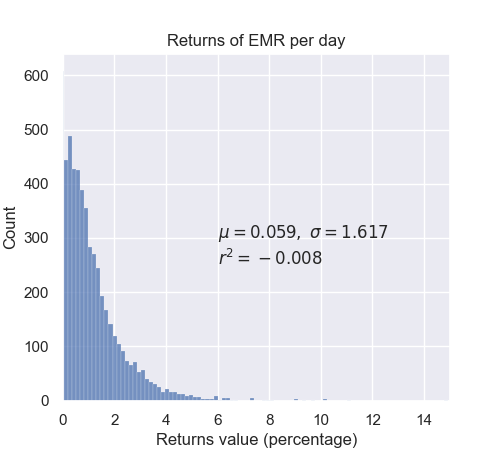
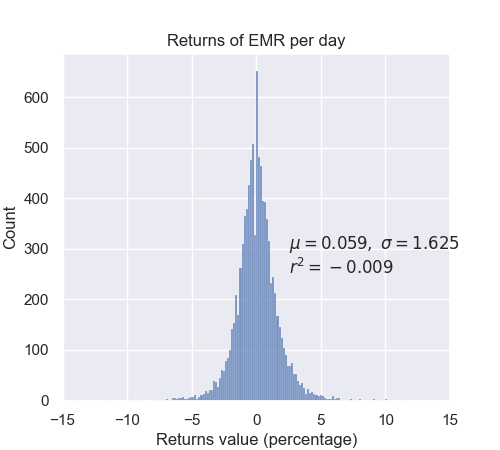
updated ex1 and ex2

diff --git a/main.py b/main.py
@@ -3,52 +3,65 @@ import numpy as np
 import pandas as pd
 import matplotlib.pyplot as plt
 import seaborn as sns
+import random
+from functools import reduce
 
+portfolio_stocks = ['VMC', 'EMR', 'CSX', 'UNP']
+num_of_stocks = len(portfolio_stocks)
+portfolio_weights = (0.25, 0.25, 0.25, 0.25)
 
 def load_data():
-    portfolio_composition = ['VMC', 'EMR', 'CSX', 'UNP']
-
     stocks_close = pd.DataFrame({})
 
-    for stock_name in portfolio_composition:
+    for stock_name in portfolio_stocks:
         ticker = yfinance.Ticker(stock_name)
         data = ticker.history(interval="1d",
-                              start="1980-01-01", end="2019-12-31")
+                              start="1980-01-01", end="2018-03-26")
 
-        data[f'Close_{stock_name}'] = data['Close']
+        data[f'{stock_name}'] = data['Close']
 
-        stocks_close = stocks_close.join(data[[f'Close_{stock_name}']],
+        stocks_close = stocks_close.join(data[[f'{stock_name}']],
                                how='outer').dropna()
 
-    return stocks_close
+    stocks_returns = get_returns_df(stocks_close)
+    return stocks_returns
+
+def get_returns_df(data):
+    d = {}
+
+    for stock_name in data.columns:
+        stock_data = data[stock_name].values
+        y = [100*((stock_data[i]/stock_data[i-1])-1) for i in range(1, len(stock_data))]
+        d[stock_name] = y
+
+    df = pd.DataFrame(d)
+    df.index = data.index[1:]
+    return df
 
 def stocks_returns(data):
 
     sns.set_theme()
 
-    for stock in data.columns:
-        stock_name = stock.replace("Close_", "")
+    for stock_name in data.columns:
+        # stock_name = stock.replace("Close_", "")
 
-        stock_data = data[stock].values
-        x = np.arange(len(data.index))[1:]
-
-        y = [100*((stock_data[i]/stock_data[i-1])-1) for i in range(1, len(stock_data))]
+        stock_data = data[stock_name].values
+        x = np.arange(len(data.index))
 
         # calculating the stock correlation
-        r = np.corrcoef(x, y)[0, 1]
+        r = np.corrcoef(x, stock_data)[0, 1]
 
-        mean = np.mean(y)
-        std = np.std(y)
+        mean = np.mean(stock_data)
+        std = np.std(stock_data)
 
         # plotting histograms
-        # plt.hist(y, bins=50, alpha=0.75, density=True, facecolor='g')
         fig, ax = plt.subplots(figsize=(5, 4.5))
-        sns.histplot(y, ax=ax)
-        plt.xlim(-0.01, 15.01)
+        sns.histplot(stock_data, ax=ax)
+        plt.xlim(-15, 15)
         plt.title(f"Returns of {stock_name} per day")
         plt.xlabel("Returns value (percentage)")
-        plt.text(6, 300, r'$\mu={:.3f},\ \sigma={:.3f}$'.format(mean, std))
-        plt.text(6, 250, r'$r^2={:.3f}$'.format(r))
+        plt.text(2.5, 300, r'$\mu={:.3f},\ \sigma={:.3f}$'.format(mean, std))
+        plt.text(2.5, 250, r'$r^2={:.3f}$'.format(r))
         plt.grid(True)
         plt.savefig(f"visualizations/{stock_name}_histogram.png")
         plt.clf()
@@ -60,9 +73,160 @@ def stocks_returns(data):
     plt.title("Covariance matrix between the stocks' returns", fontsize='17')
     plt.savefig("visualizations/covariance_matrix.png")
 
+def get_small_window_days(data_days):
+    data_days = np.array(data_days)
+
+    num_forecast_days = 880
+    small_window_size = 10
+    num_of_small_window = int(num_forecast_days / small_window_size)
+
+    small_windows = []
+
+    random_dates = random.sample(range(len(data_days)-10), num_of_small_window)
+
+    for date in random_dates:
+        random_small_window = np.take(data_days, range(date, date+small_window_size))
+        # random_small_window = data_days[date: date+small_window_size].copy()
+        small_windows.append(random_small_window)
+
+    artificial_window = []
+    # flatten the small_windows list
+    for l in small_windows:
+        for elem in l:
+            artificial_window.append(elem)
+
+    return np.array(artificial_window)
+
+def mult_agg(series):
+    x = series.map(lambda x: x + 1)
+    for i in x:
+        print(i)
+        break
+    return reduce(lambda a, b: a*b, x)
+
+def create_sliding_window_simulation(data, num_of_windows=100, deposit=False):
+
+    data_values = data.values / 100
+
+    data_days = np.arange(len(data))
+
+    simulated_data = []
+
+    for i in range(num_of_windows):
+        small_window_days = get_small_window_days(data_days)
+        num_of_days = len(small_window_days)
+
+        small_window_data = data_values[small_window_days, :].copy()
+
+        small_window_data = small_window_data.reshape(-1, num_of_stocks)
+        small_window_data = small_window_data + 1
+
+        aggregated = np.prod(small_window_data, axis=0)
+
+        if deposit:
+            aggregated = np.ones((num_of_stocks,))
+            is_above_36 = [False for i in range(num_of_stocks)]
+
+            for day in small_window_data:
+                for stock_index in range(len(day)):
+                    # checking that this stock has not reached above 36 yet
+                    if not is_above_36[stock_index]:
+                        daily_stock_return = day[stock_index]
+                        # calculating the new stock return
+                        aggregated[stock_index] = aggregated[stock_index] * daily_stock_return
+                        if aggregated[stock_index] > 1.36:
+                            # change this stock total value to 2%
+                            aggregated[stock_index] = 1.02
+                            # from now on we will not even check this stock because it reached above 36
+                            is_above_36[stock_index] = True
+
+            aggregated[aggregated < 1] = 1
+
+        # aggregated is just one artificial window - just one sample in the simulation
+        simulated_data.append(aggregated)
+
+    simulated_data = pd.DataFrame(simulated_data, columns=data.columns)
+    simulated_data = (simulated_data - 1) * 100
+    simulated_data = simulated_data.applymap(lambda x: round(x, 3))
+    simulated_data = simulated_data.astype(np.float32)
+
+    return simulated_data
+
+def calculate_portfolio_probabilities(simulation_data):
+    # calculate the total portfolio return
+    simulation_data['Total_Return'] = simulation_data['VMC']*0.25 + simulation_data['EMR']*0.25 + simulation_data['CSX']*0.25 + simulation_data['UNP']*0.25
+
+    simulated_portfolio_return = simulation_data['Total_Return'].values
+    n = len(simulated_portfolio_return)
+
+    # calculate probability for 0%
+    print(100*'-')
+    print("Probability of 0% Return:")
+    prob_0 = (simulated_portfolio_return == 0.0).sum() / n
+    print("{:.3f}".format(prob_0))
+
+    print(100 * '-')
+    print("Probability of 2% Return:")
+    prob_2 = (simulated_portfolio_return == 2.0).sum() / n
+    print("{:.3f}".format(prob_2))
+
+    print(100 * '-')
+    print("Probability of [20%, 2%) Return:")
+    prob_20_2 = ((simulated_portfolio_return > 2.0) & (simulated_portfolio_return <= 20.0)).sum() / n
+    print("{:.3f}".format(prob_20_2))
+
+    print(100 * '-')
+    print("Probability of (20%, 36%) Return:")
+    prob_20_36 = ((simulated_portfolio_return > 20.0) & (simulated_portfolio_return < 36.0)).sum() / n
+    print("{:.3f}".format(prob_20_36))
+
+    print(100 * '-')
+    print("Return's Mean:")
+    mean = np.mean(simulated_portfolio_return)
+    print("{:.3f}".format(mean))
+
+    print(100 * '-')
+    print("Return's Confidence Interval:")
+    percentile_10th = np.percentile(simulated_portfolio_return, 10)
+    percentile_90th = np.percentile(simulated_portfolio_return, 90)
+    print("P(" + str(round(percentile_10th, 3)) + " <= mu <= " + str(round(percentile_90th, 3)) + ") = 0.9")
+
+
 def ex_1():
-    data = load_data()
-    stocks_returns(data)
+    returns_data = load_data()
+    stocks_returns(returns_data)
+
+def ex_2():
+    # -----------------a------------------
+    print(49*"-"+"a."+49*"-")
+    print("Simple Portfolio")
+    returns_data = load_data()
+    sim_data = create_sliding_window_simulation(returns_data, deposit=False)
+    calculate_portfolio_probabilities(sim_data)
+
+    # -----------------b------------------
+    print(49 * "-" + "b." + 49 * "-")
+    print("Market-linked CD")
+    returns_data = load_data()
+    sim_data = create_sliding_window_simulation(returns_data, deposit=True)
+    calculate_portfolio_probabilities(sim_data)
+
+    # -----------------c.1------------------
+    print()
+    print(49 * "-" + "c.1" + 48 * "-")
+    print("Simple Portfolio")
+    returns_data = load_data()
+    sim_data = create_sliding_window_simulation(returns_data, num_of_windows=200, deposit=False)
+    calculate_portfolio_probabilities(sim_data)
+
+    # -----------------c.2------------------
+    print()
+    print(49 * "-" + "c.2" + 48 * "-")
+    print("Market-linked CD")
+    returns_data = load_data()
+    sim_data = create_sliding_window_simulation(returns_data, num_of_windows=200, deposit=True)
+    calculate_portfolio_probabilities(sim_data)
 
 if __name__ == '__main__':
     ex_1()
+    # ex_2()
